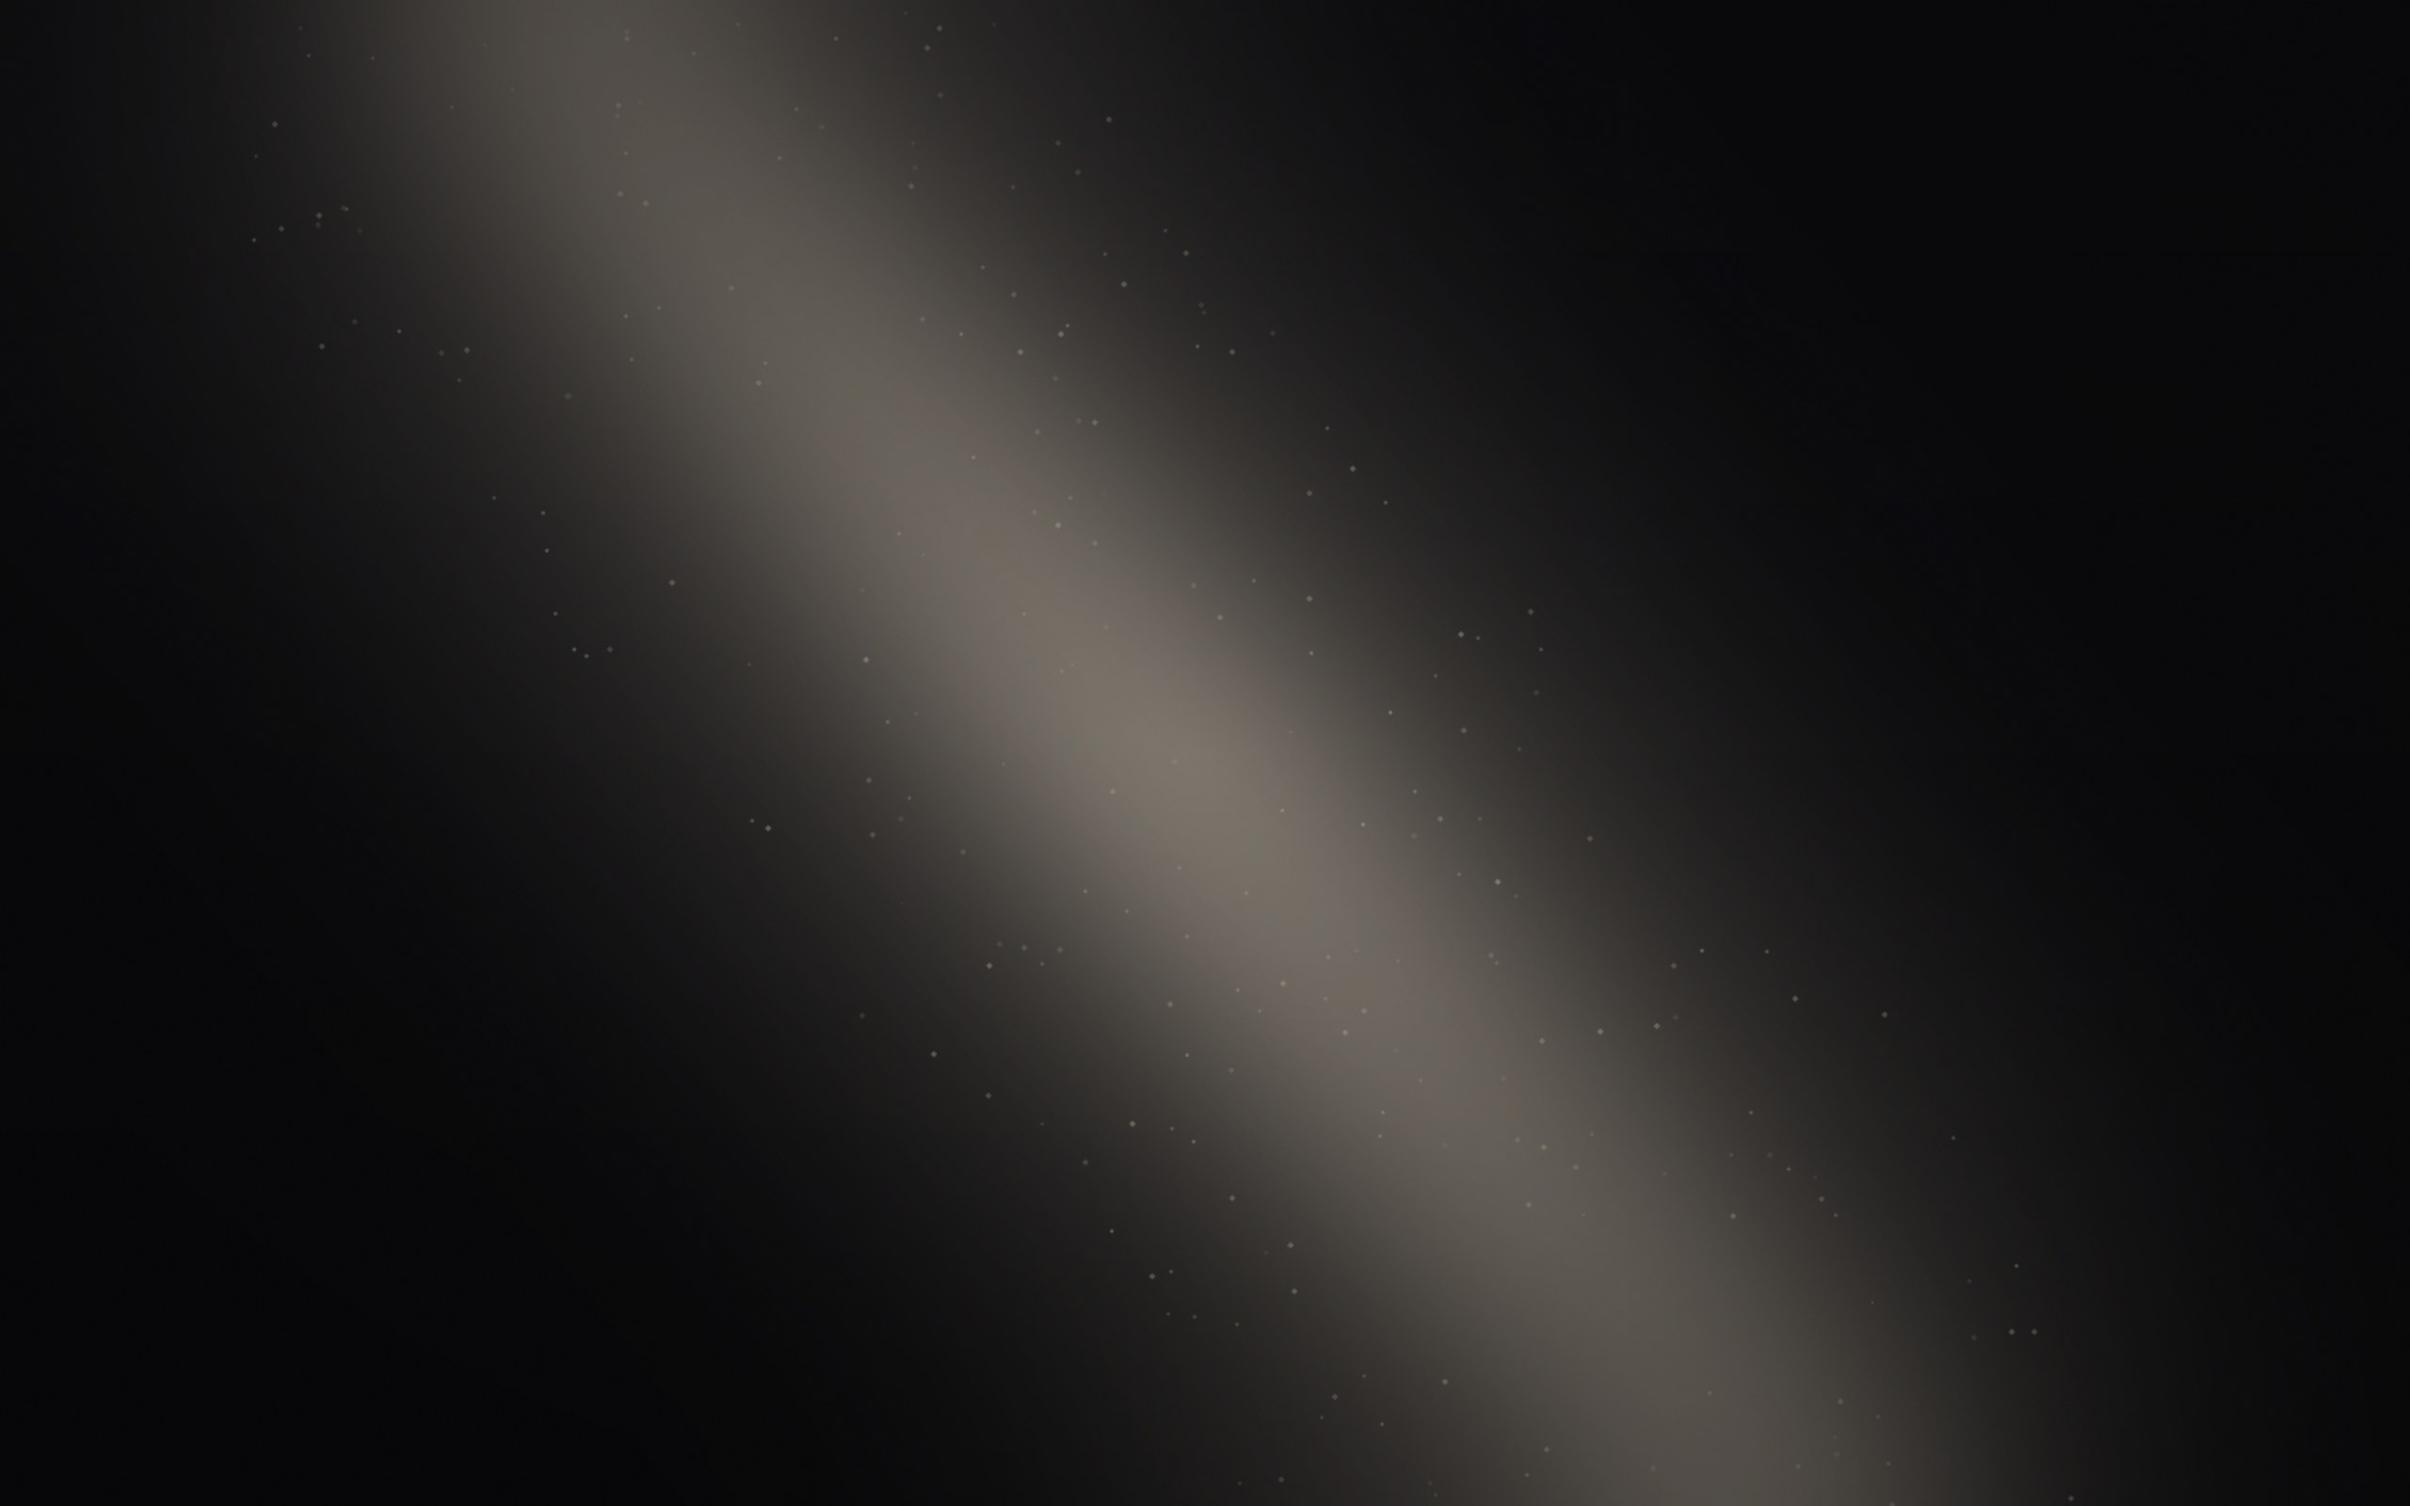
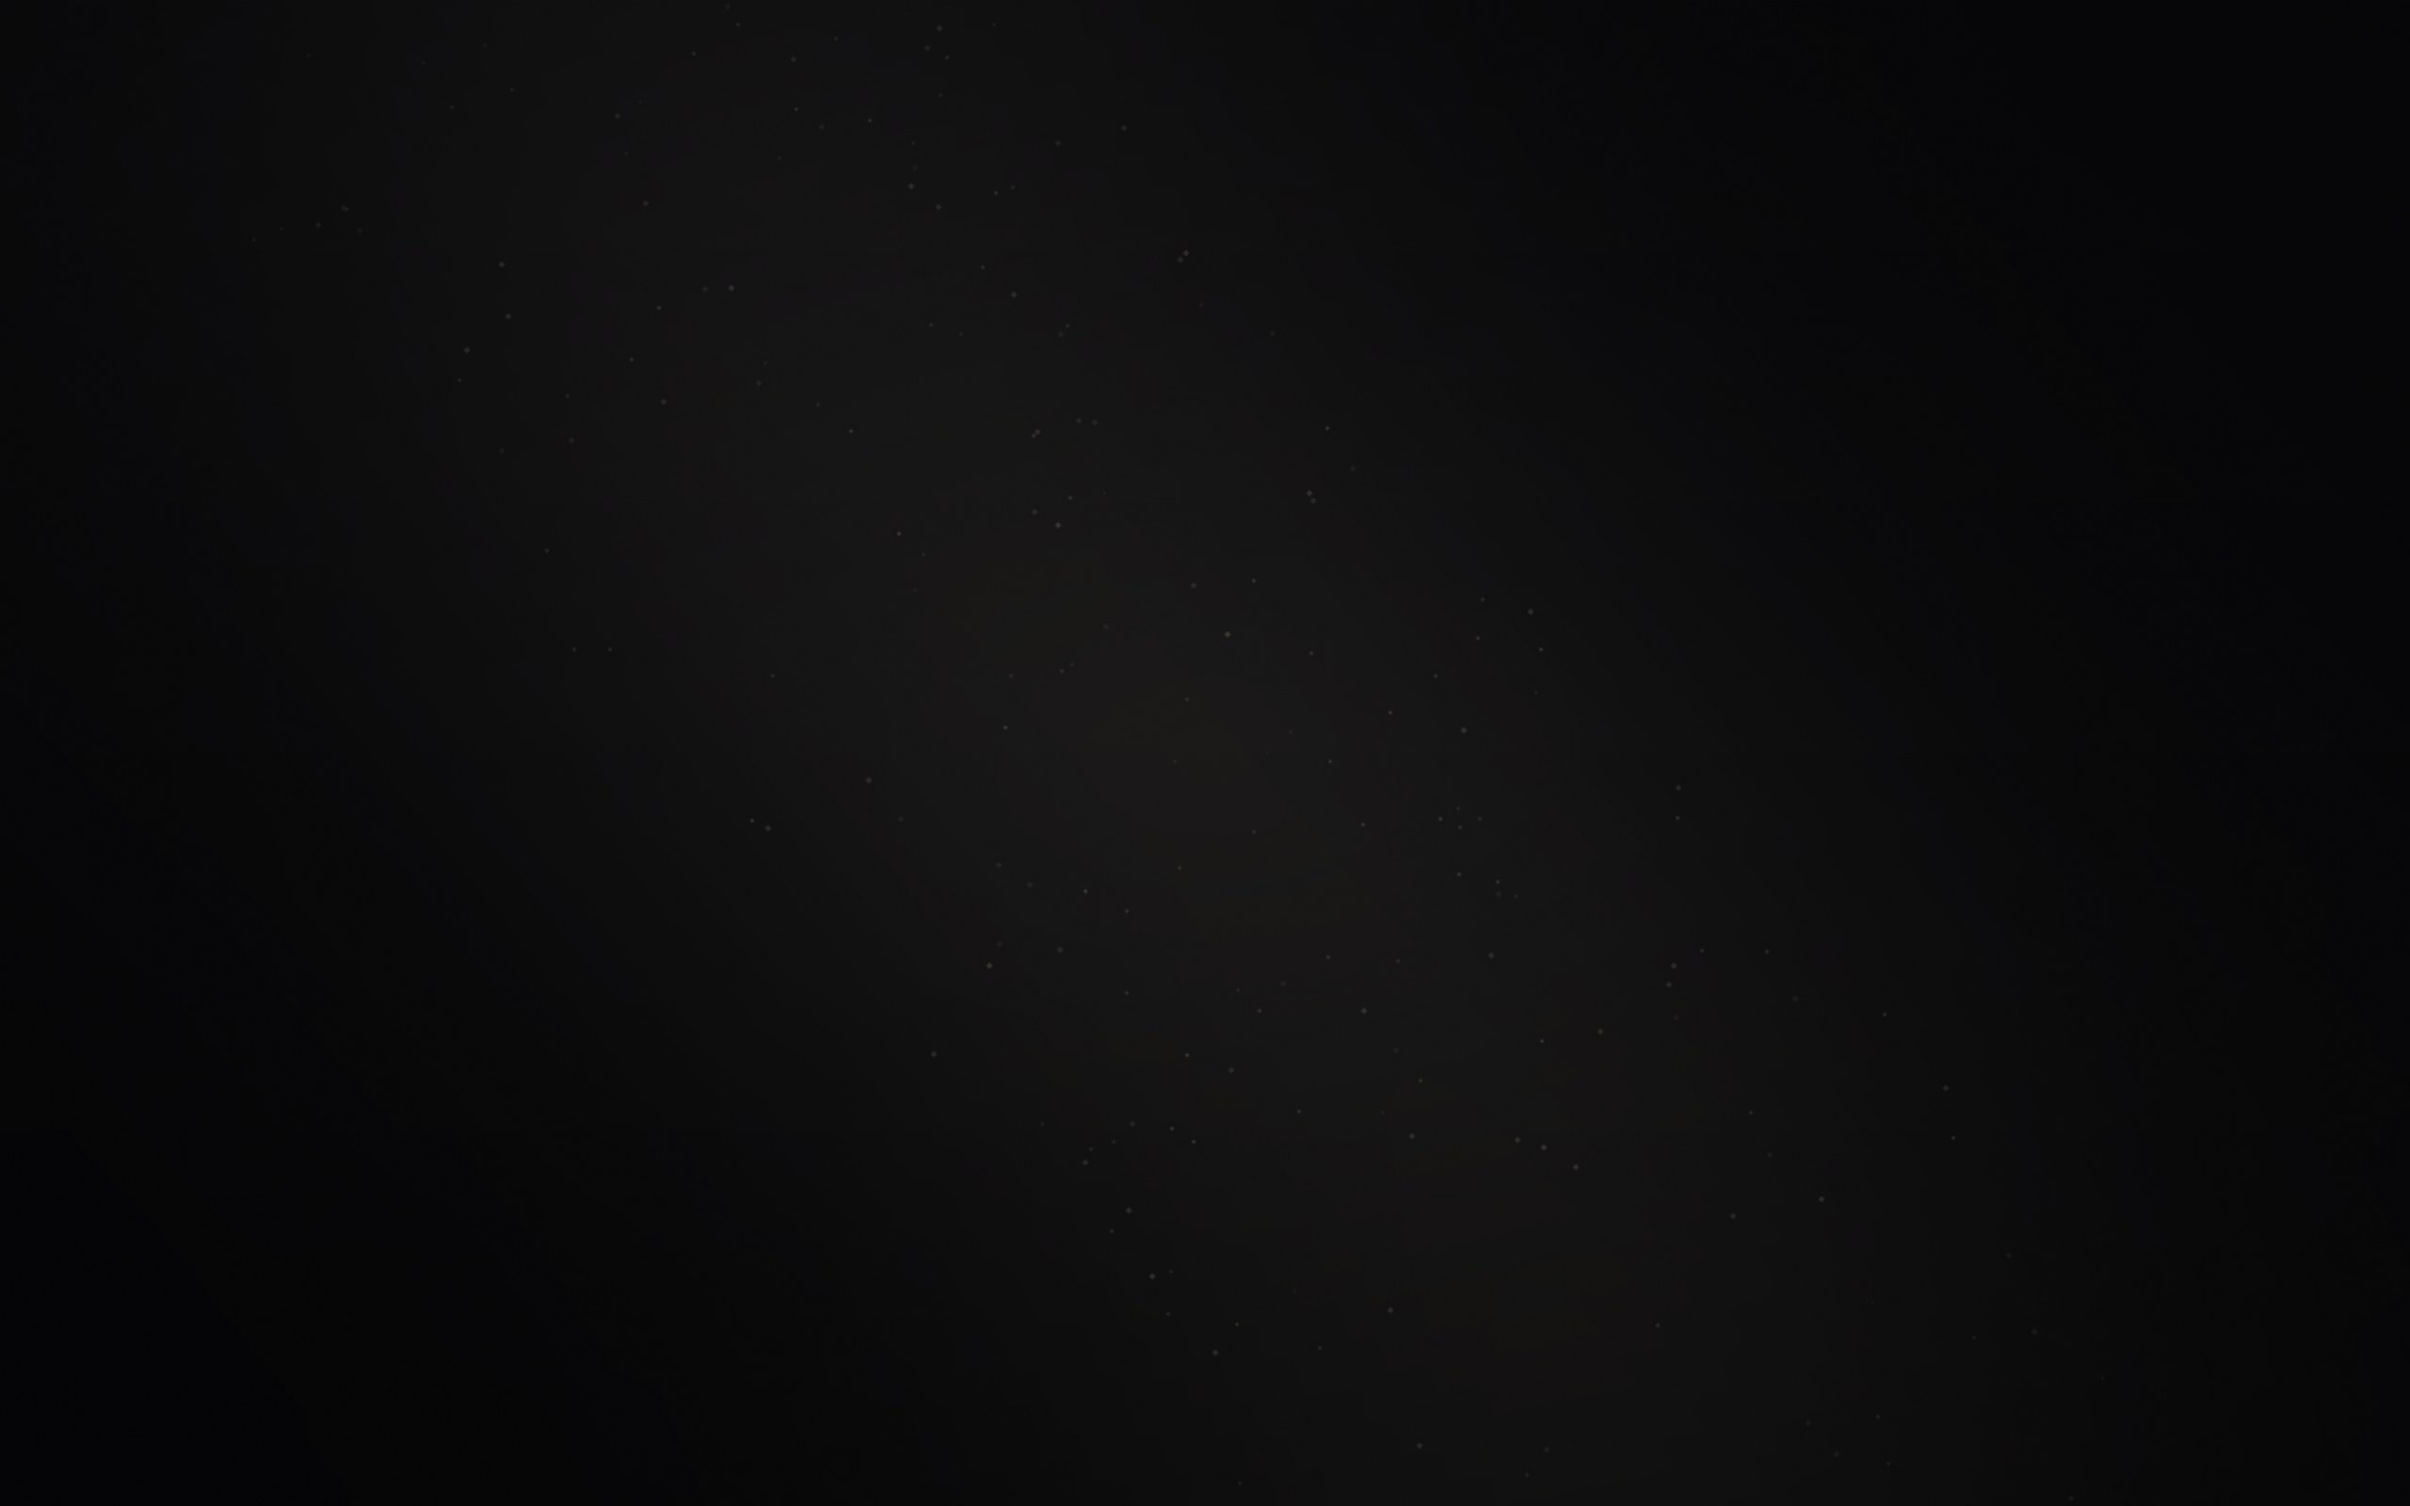
fix(ambient): dim god-ray so it no longer washes out text
Re-render the D8 beam much softer and darker without a bright core, so
page copy laid over the center stays readable.

Also declutter project cards: surface 1-2 key lifestyle benefits, quiet
the type label, and reveal the CTA on hover for a calmer luxury showcase.

diff --git a/components/sections/Projects.tsx b/components/sections/Projects.tsx
@@ -1,6 +1,6 @@
 "use client";
 
-import { useLayoutEffect, useRef } from "react";
+import { Fragment, useLayoutEffect, useRef } from "react";
 import Image from "next/image";
 import Link from "next/link";
 import { gsap } from "gsap";
@@ -94,18 +94,20 @@ export function Projects() {
                       aria-hidden
                       className="absolute inset-0 bg-gradient-to-t from-ink-900 via-ink-900/30 to-transparent"
                     />
+                    {/* Тип — второстепенная характеристика, держим тихо */}
                     <div className="absolute left-6 top-6 flex items-center gap-3">
                       <span className="font-mono text-xs text-platinum">
                         {String(i + 1).padStart(2, "0")}
                       </span>
-                      <span className="text-xs uppercase tracking-[0.18em] text-bone-muted">
+                      <span className="text-xs uppercase tracking-[0.18em] text-bone-faint">
                         {p.type}
                       </span>
                     </div>
 
                     <div className="absolute inset-x-6 bottom-6">
+                      {/* Приоритет 2–4: название доминирует, локация и цена ниже по тону */}
                       <div className="flex items-end justify-between gap-4">
-                        <div>
+                        <div className="min-w-0">
                           <h3 className="font-display text-3xl font-light tracking-tight text-bone md:text-4xl">
                             {p.name}
                           </h3>
@@ -118,7 +120,26 @@ export function Projects() {
                         </span>
                       </div>
 
-                      <div className="mt-5 flex items-center gap-2 text-xs uppercase tracking-[0.18em] text-bone-muted transition-colors duration-500 group-hover:text-bone">
+                      {/* 1–2 ключевых преимущества: тихая строка, сканируется
+                          взглядом, но не конкурирует с названием и фото */}
+                      {p.keyPoints.length > 0 && (
+                        <ul className="mt-3.5 flex flex-wrap items-center gap-x-2.5 gap-y-1 text-[11px] uppercase tracking-[0.14em] text-bone-faint">
+                          {p.keyPoints.map((point, idx) => (
+                            <Fragment key={point}>
+                              <li>{point}</li>
+                              {idx < p.keyPoints.length - 1 && (
+                                <li aria-hidden className="flex items-center">
+                                  <span className="h-[2px] w-[2px] rounded-full bg-platinum/40" />
+                                </li>
+                              )}
+                            </Fragment>
+                          ))}
+                        </ul>
+                      )}
+
+                      {/* CTA проявляется на ховере (на мобиле виден всегда) —
+                          в покое витрина остаётся спокойной и воздушной */}
+                      <div className="mt-5 flex items-center gap-2 text-xs uppercase tracking-[0.18em] text-bone-muted transition-all duration-500 ease-glass group-hover:text-bone md:translate-y-1 md:opacity-0 md:group-hover:translate-y-0 md:group-hover:opacity-100 motion-reduce:translate-y-0 motion-reduce:opacity-100">
                         Подробнее
                         <svg
                           width="14"

diff --git a/lib/data.ts b/lib/data.ts
@@ -26,6 +26,9 @@ export type Project = {
   type: string;
   image: string;
   priceFrom: string;
+  // 1–2 коротких преимущества для карточки-витрины (образ жизни/локация/бренд,
+  // не инвест-цифры). Держим карточку лёгкой для сканирования взглядом.
+  keyPoints: string[];
   summary: string;
   // Контент детальной страницы:
   concept: string;
@@ -51,6 +54,7 @@ export const projects: Project[] = [
     type: "Кондоминиум",
     image: "/projects/silhouette.jpg",
     priceFrom: "от $125K",
+    keyPoints: ["350 м до пляжа", "Рядом парк Сиринат"],
     summary:
       "Резиденция у пляжа Най Янг с прогнозируемой доходностью около 11% годовых.",
     concept:
@@ -128,6 +132,7 @@ export const projects: Project[] = [
     type: "Кондо и таунхаусы",
     image: "/projects/ayana.jpg",
     priceFrom: "от $155K",
+    keyPoints: ["Вид на море 270°", "Собственный парк"],
     summary:
       "Seaview-резиденции с собственным парком AYANA Park и панорамой на море под углом 270°.",
     concept:
@@ -205,6 +210,7 @@ export const projects: Project[] = [
     type: "Кондоминиум",
     image: "/projects/sunhills-layan.jpg",
     priceFrom: "от $89K",
+    keyPoints: ["Амбассадор — Хабиб", "Вертикальный сад"],
     summary:
       "Архитектура «вертикального сада» в Лаяне. Официальный амбассадор бренда — Хабиб Нурмагомедов.",
     concept:
@@ -276,6 +282,7 @@ export const projects: Project[] = [
     type: "Кондоминиум",
     image: "/projects/lakeside.jpg",
     priceFrom: "≈ $228K",
+    keyPoints: ["Khabib Gym 1 500 м²", "7 мин до пляжа"],
     summary:
       "Резиденция у озёр Лагуны с тренировочным центром Khabib Gym. Официальный партнёр — Хабиб Нурмагомедов.",
     concept:
